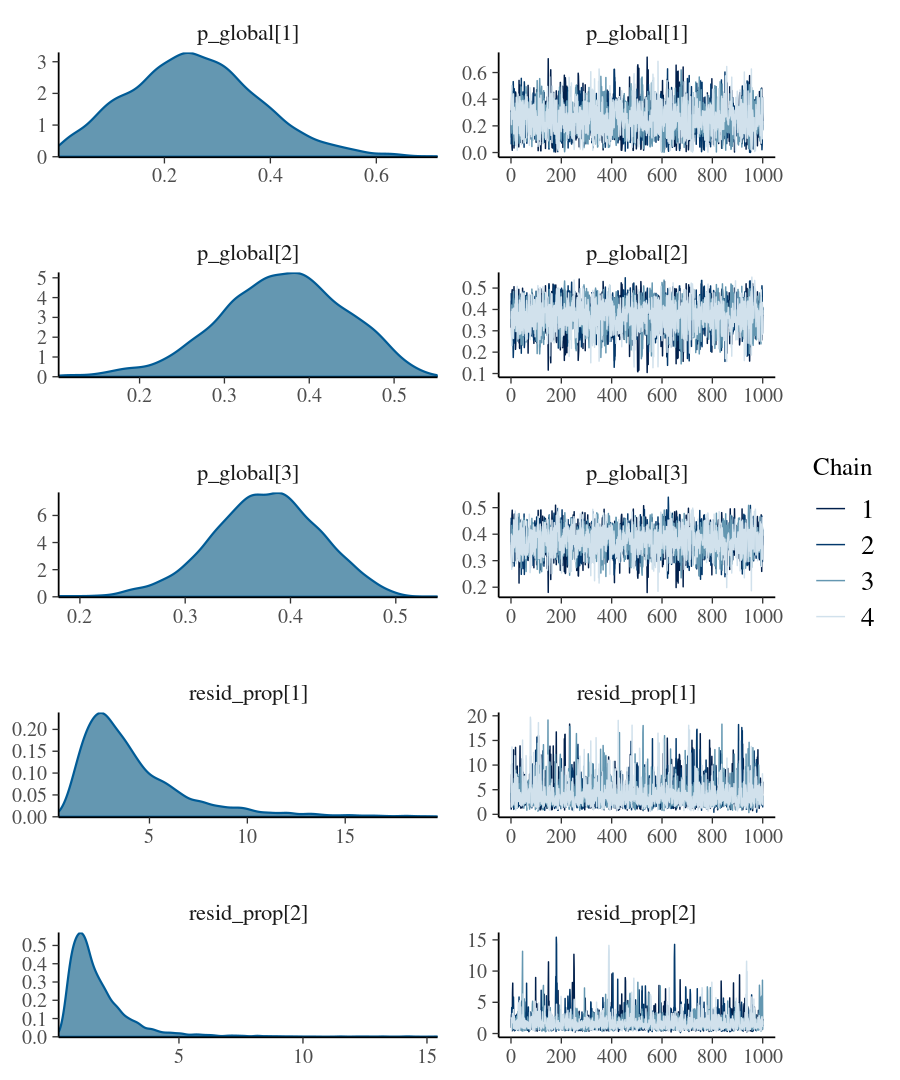
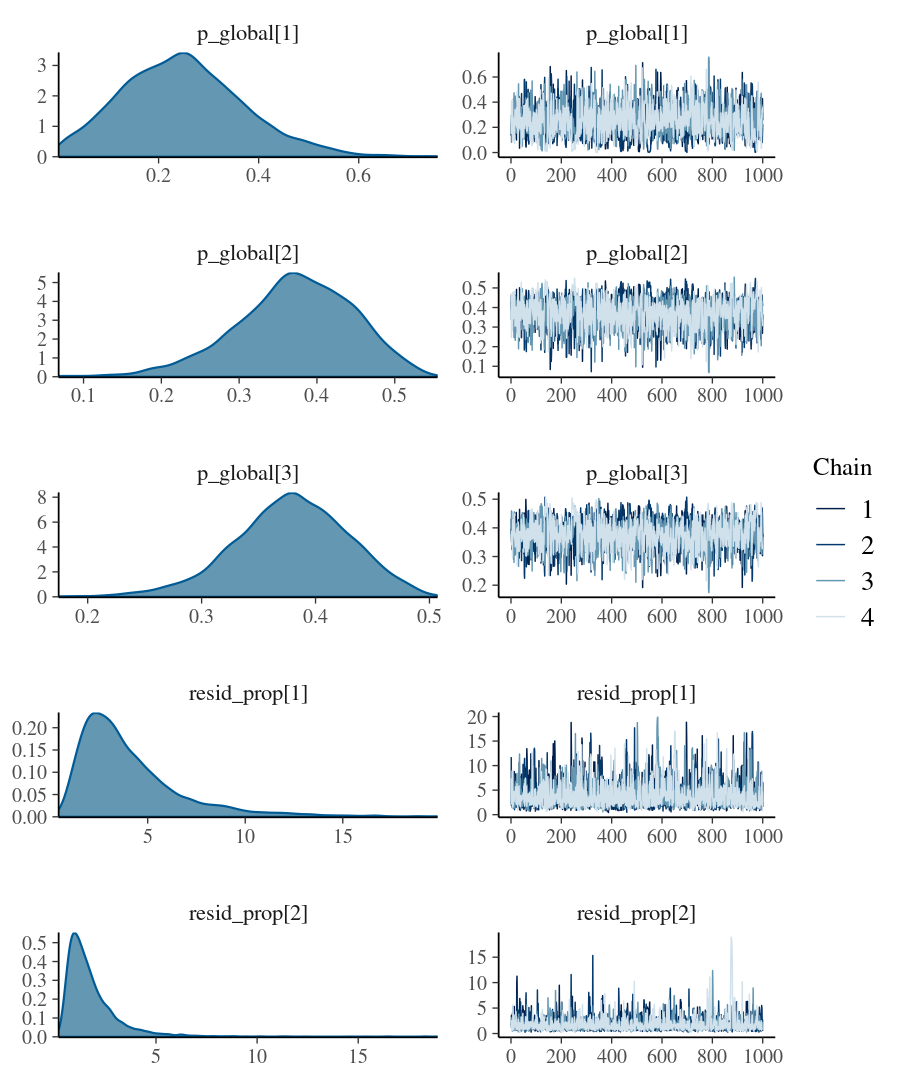
Add README lint badge and fix lint workflow's dependency setup

diff --git a/README.md b/README.md
@@ -8,6 +8,7 @@
 [![Lifecycle:
 experimental](https://img.shields.io/badge/lifecycle-experimental-orange.svg)](https://lifecycle.r-lib.org/articles/stages.html#experimental)
 [![R-CMD-check](https://github.com/mattiaghilardi/bsimms/actions/workflows/R-CMD-check.yaml/badge.svg)](https://github.com/mattiaghilardi/bsimms/actions/workflows/R-CMD-check.yaml)
+[![lint](https://github.com/mattiaghilardi/bsimms/actions/workflows/lint.yaml/badge.svg)](https://github.com/mattiaghilardi/bsimms/actions/workflows/lint.yaml)
 [![Codecov test
 coverage](https://codecov.io/gh/mattiaghilardi/bsimms/graph/badge.svg)](https://app.codecov.io/gh/mattiaghilardi/bsimms)
 <!-- [![CRAN status](https://www.r-pkg.org/badges/version/bsimms)](https://CRAN.R-project.org/package=bsimms) -->
@@ -117,15 +118,15 @@ summary(fit)
 #>  formula: ~1
 #> 
 #> Population-average source proportions:
-#>  source  mean    sd  q2.5 q97.5 rhat ess_bulk ess_tail
-#>  Beaver 0.256 0.122 0.037 0.513    1     2248     1901
-#>    Deer 0.368 0.075 0.207 0.498    1     2200     1783
-#>    Hare 0.376 0.051 0.271 0.472    1     2604     2208
+#>  source  mean    sd  q2.5 q97.5  rhat ess_bulk ess_tail
+#>  Beaver 0.249 0.122 0.033 0.511 1.003     1100      725
+#>    Deer 0.372 0.075 0.209 0.504 1.002     1100      931
+#>    Hare 0.379 0.050 0.272 0.472 1.002     1306      984
 #> 
 #> Error term(s):
-#>  isotope  mean    sd  q2.5  q97.5 rhat ess_bulk ess_tail
-#>     d13C 4.189 2.807 1.112 12.150    1     4127     2847
-#>     d15N 1.787 1.410 0.469  5.656    1     3420     2414
+#>  isotope  mean    sd  q2.5  q97.5  rhat ess_bulk ess_tail
+#>     d13C 4.094 2.706 1.090 11.724 1.000     3042     1821
+#>     d15N 1.823 1.443 0.482  5.455 1.002     2384     1812
 ```
 
 `rhat` close to 1 and large effective sample sizes indicate the chains
